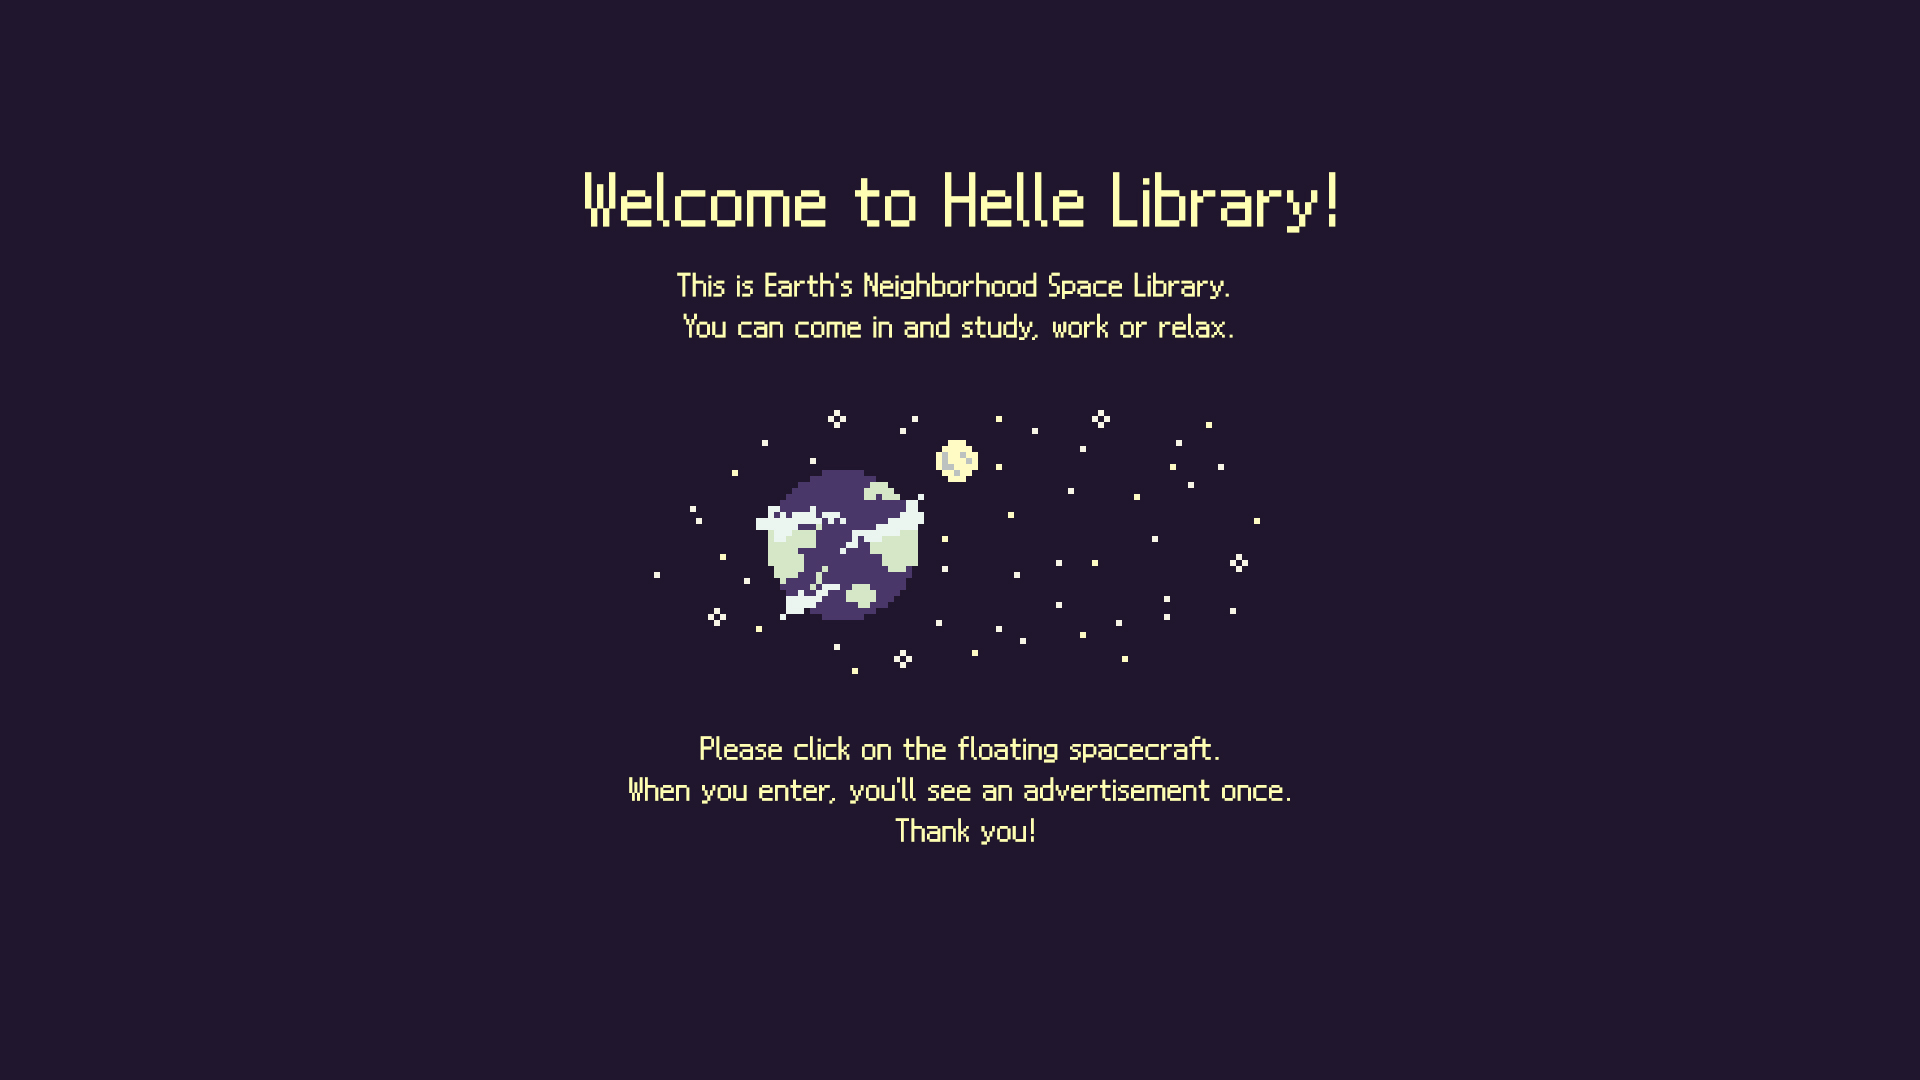
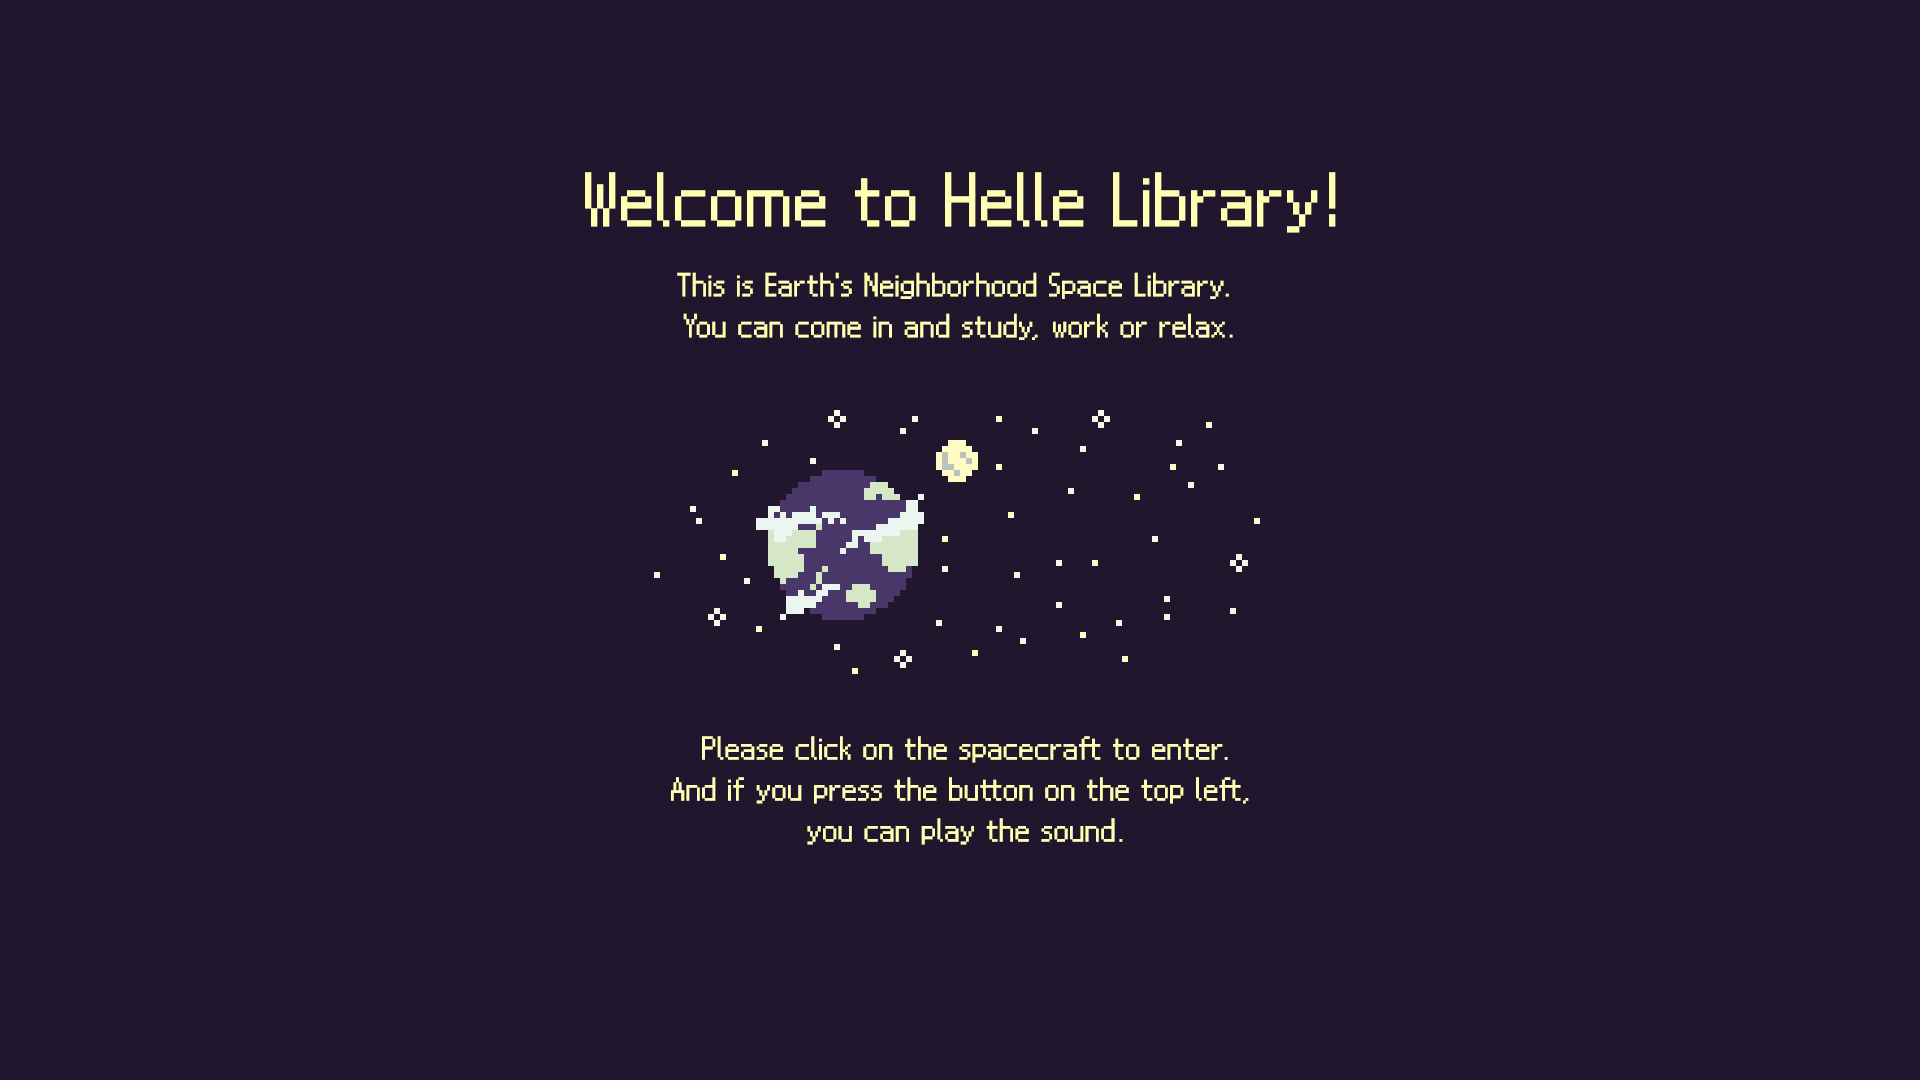
update library layout

Changed region(s): [[0.3125, 0.6722, 0.6562, 0.7944]]

diff --git a/library.html b/library.html
@@ -16,15 +16,70 @@ body {
   width: 100vw;
   height: 100vh;
   position: relative;
-  overflow: hidden
+  overflow: hidden;
 }
 
 /* 영상 전체 보이기 */
 .bg-video {
   width: 100%;
   height: 100%;
-  object-fit: contain;
+  object-fit: cover;
   background-color: black;
+}
+
+/* 아이콘 UI */
+.icon-controls {
+  position: absolute;
+  top: 20px;
+  left: 20px;
+  display: flex;
+  flex-direction: column;
+  gap: 15px;
+  z-index: 20;
+}
+
+.icon-controls img {
+  width: 85px;
+  height: 85px;
+  cursor: pointer;
+  opacity: 0.7;
+  transition: 0.2s;
+}
+
+.icon-controls img:hover {
+  opacity: 1;
+  transform: scale(1.15);
+
+  @media (max-width: 768px) {
+
+  /* 아이콘 위치 살짝 여유 */
+  .icon-controls {
+    top: 15px;
+    left: 15px;
+    gap: 10px;
+  }
+
+  /* 아이콘 크기 줄이기 (핵심) */
+  .icon-controls img {
+    width: 55px;
+    height: 55px;
+  }
+
+  /* 터치 안정성 */
+  .icon-controls img {
+    -webkit-tap-highlight-color: transparent;
+  }
+}
+
+/* 안전 영역 (노치 대응) */
+.icon-controls {
+  padding-top: env(safe-area-inset-top);
+  padding-left: env(safe-area-inset-left);
+}
+
+/* 가독성 강화 (배경 겹침 방지) */
+.icon-controls img {
+  filter: drop-shadow(0 0 6px rgba(0,0,0,0.6));
 }
 
 </style>
@@ -34,15 +89,99 @@ body {
 
 <div class="world">
 
+  <!-- 영상 -->
   <video autoplay loop muted playsinline class="bg-video">
     <source src="library.mp4" type="video/mp4">
   </video>
 
+  <!-- 아이콘 -->
+  <div class="icon-controls">
+    <img src="assets/icons/all.png" onclick="setMode('all')">
+    <img src="assets/icons/headset.png" onclick="setMode('music')">
+    <img src="assets/icons/speaker.png" onclick="setMode('noise')">
+  </div>
+
 </div>
 
-<audio autoplay loop id="bgm">
-  <source src="library_noise.mp3" type="audio/mpeg">
+<!-- 오디오 3개 -->
+<audio id="music" loop>
+  <source src="assets/audio/music.mp3" type="audio/mpeg">
 </audio>
+
+<audio id="noise" loop>
+  <source src="assets/audio/noise.mp3" type="audio/mpeg">
+</audio>
+
+<audio id="mix" loop>
+  <source src="assets/audio/mix.mp3" type="audio/mpeg">
+</audio>
+
+<script>
+
+const music = document.getElementById("music");
+const noise = document.getElementById("noise");
+const mix = document.getElementById("mix");
+
+let unlocked = false;
+
+/* 🔥 오디오 unlock (핵심 수정됨) */
+async function unlockAudioOnce() {
+  if (unlocked) return;
+
+  music.volume = 0;
+  noise.volume = 0;
+  mix.volume = 0;
+
+  try {
+    await music.play();
+    music.pause();
+
+    await noise.play();
+    noise.pause();
+
+    await mix.play();
+    mix.pause();
+  } catch (e) {
+    console.log("unlock failed:", e);
+  }
+
+  music.volume = 1;
+  noise.volume = 1;
+  mix.volume = 1;
+
+  unlocked = true;
+}
+
+/* 모든 소리 정지 */
+function stopAll() {
+  music.pause();
+  noise.pause();
+  mix.pause();
+}
+
+/* 🔥 모드 변경 (순서 보장 수정) */
+async function setMode(mode) {
+  await unlockAudioOnce();
+
+  stopAll();
+
+  if (mode === "all") {
+    mix.currentTime = 0;
+    mix.play();
+  }
+
+  else if (mode === "music") {
+    music.currentTime = 0;
+    music.play();
+  }
+
+  else if (mode === "noise") {
+    noise.currentTime = 0;
+    noise.play();
+  }
+}
+
+</script>
 
 </body>
 </html>